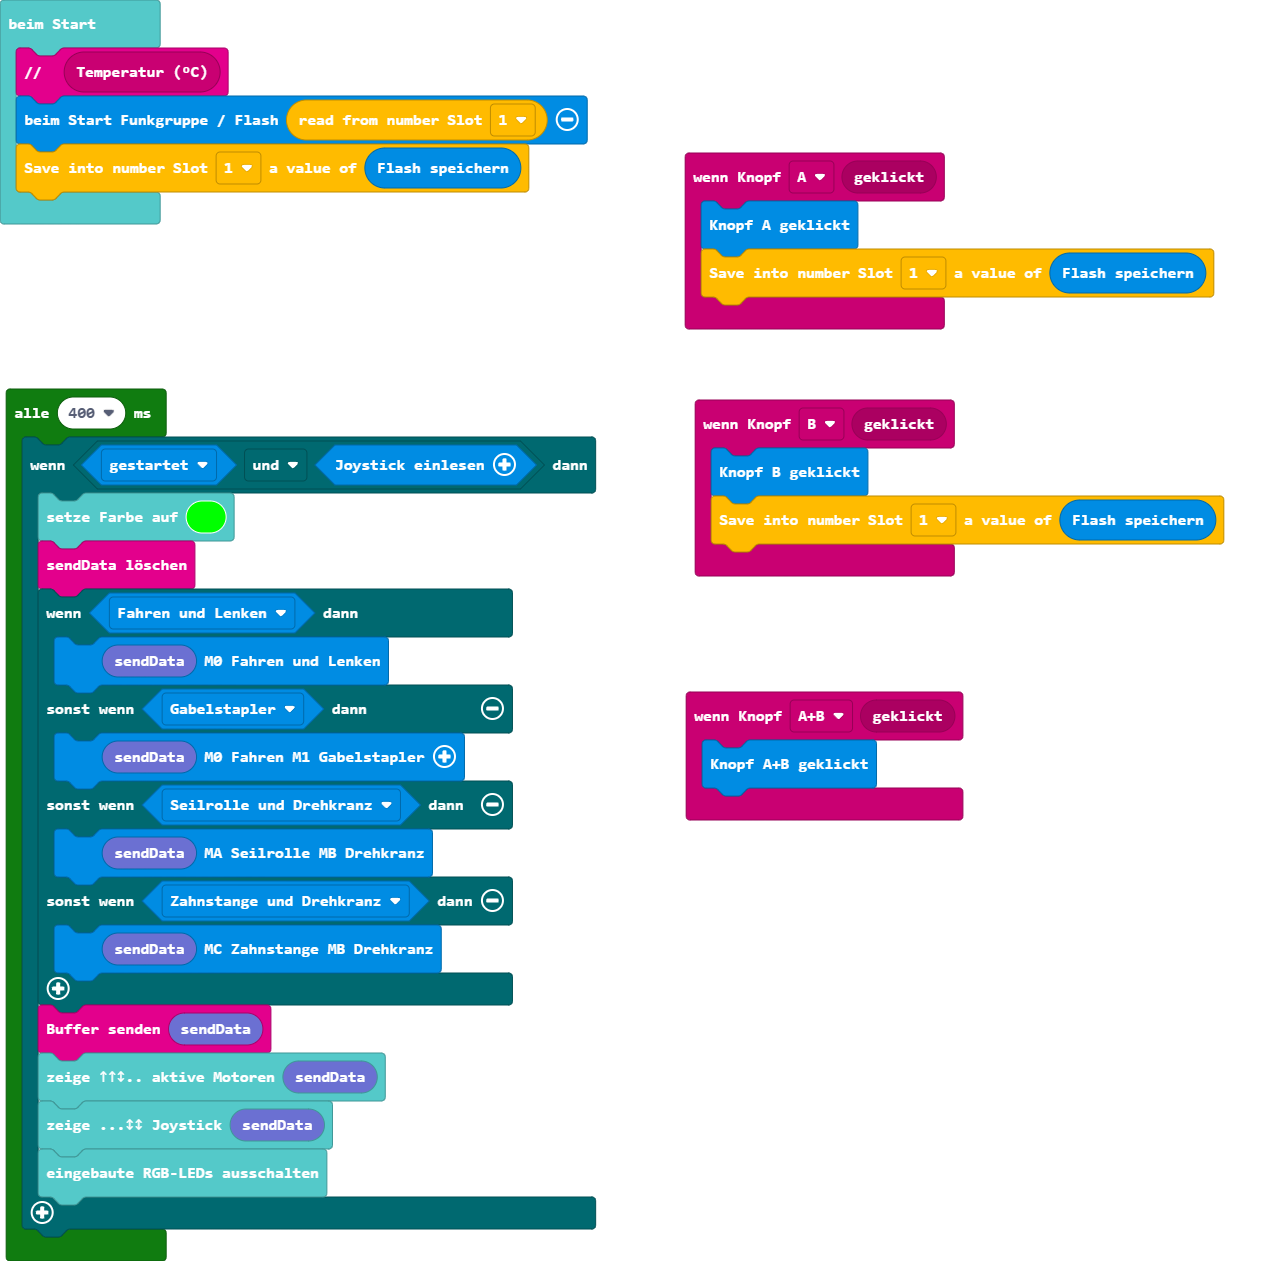
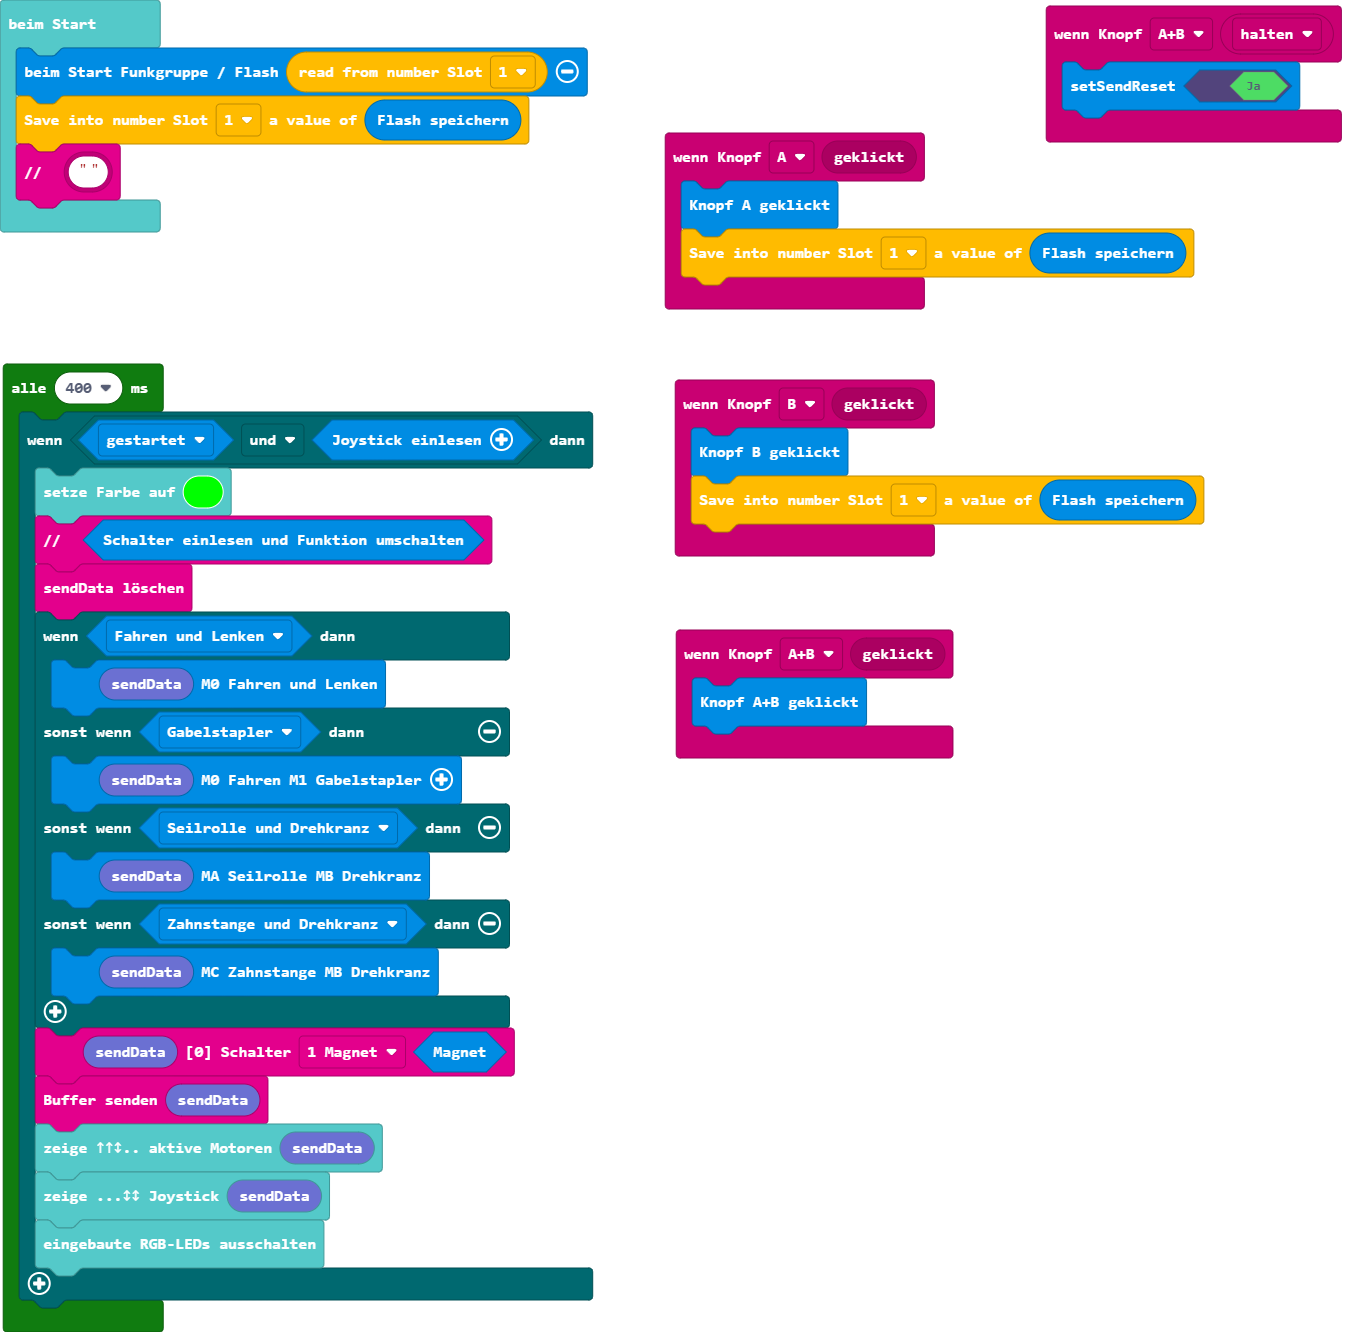
Aktualisiere pxt.json, main.blocks, main.ts

diff --git a/main.ts b/main.ts
@@ -9,12 +9,16 @@ input.onButtonEvent(Button.B, input.buttonEventClick(), function () {
     sender.buttonB()
     storage.putNumber(StorageSlots.s1, sender.storageBufferGet())
 })
-radio.comment(input.temperature())
+input.onButtonEvent(Button.AB, ButtonEvent.Hold, function () {
+    sender.setSendReset(true)
+})
 sender.beimStart(storage.getNumber(StorageSlots.s1))
 storage.putNumber(StorageSlots.s1, sender.storageBufferGet())
+radio.comment(radio.radio_text(""))
 loops.everyInterval(400, function () {
     if (sender.isFunktion(sender.eFunktion.ng) && sender.joystickQwiic()) {
         basic.setLedColor(0x00ff00)
+        radio.comment(sender.multiswitchGrove())
         radio.fill_sendBuffer19()
         if (sender.isFunktion(sender.eFunktion.m0_s0)) {
             sender.sendM0(radio.radio_sendBuffer19())
@@ -25,6 +29,7 @@ loops.everyInterval(400, function () {
         } else if (sender.isFunktion(sender.eFunktion.mc_mb)) {
             sender.sendMCB(radio.radio_sendBuffer19())
         }
+        radio.setSchalter(radio.radio_sendBuffer19(), radio.e0Schalter.b1, sender.getMagnet())
         radio.sendData(radio.radio_sendBuffer19())
         radio.zeige5x5Buffer(radio.radio_sendBuffer19())
         radio.zeige5x5Joystick(radio.radio_sendBuffer19())
